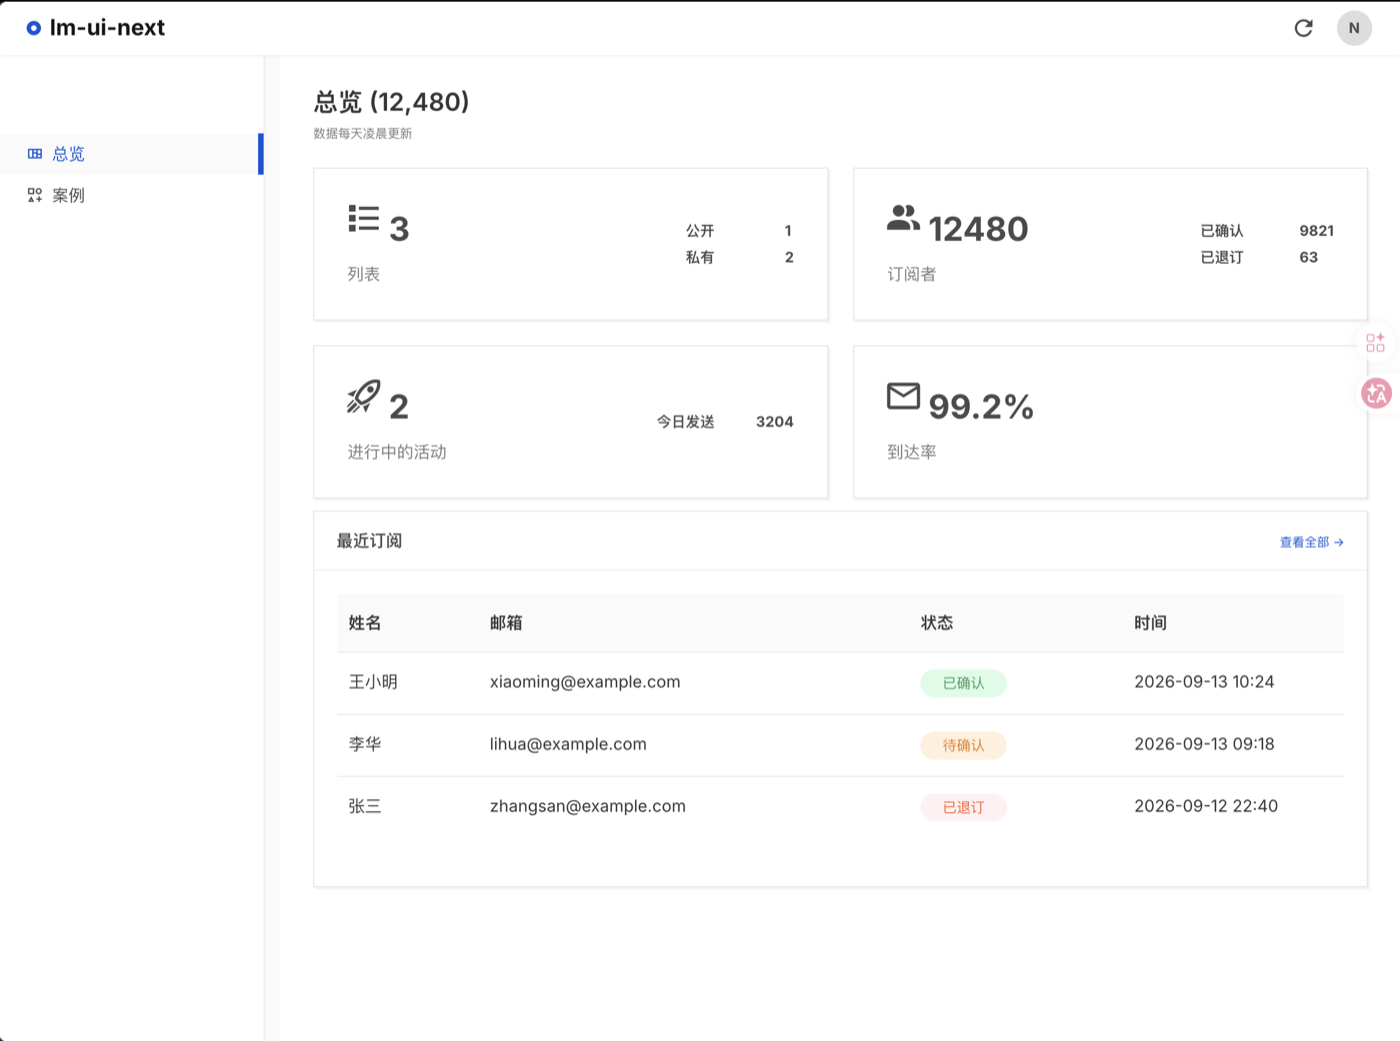
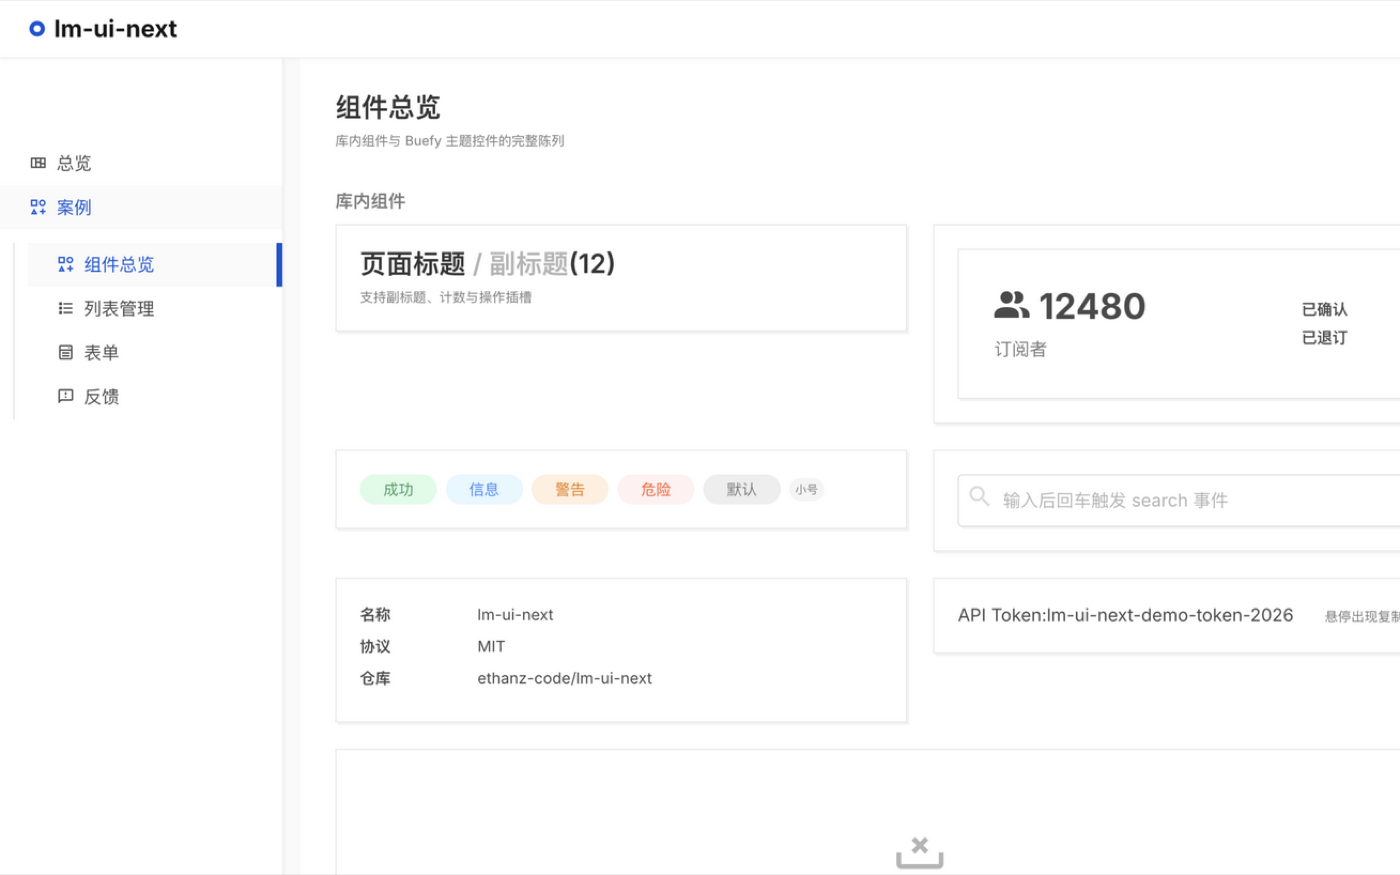
修复统计瓦片图标与大数字的垂直对齐,更新 README 截图
- LmStatTile:数字行改为 flex 居中,消除基线偏差(图标中线偏高 9.4px)
- docs/screenshot.png 更新为修复后的实时运行截图

diff --git a/src/lm-ui/components/LmStatTile.vue b/src/lm-ui/components/LmStatTile.vue
@@ -20,9 +20,9 @@ withDefaults(
     <div class="level is-mobile" style="width: 100%">
       <div class="level-left">
         <div>
-          <p>
+          <p class="count-row">
             <b-icon :icon="icon" size="is-medium" />
-            <span class="big-count ml-2">{{ count }}</span>
+            <span class="big-count">{{ count }}</span>
           </p>
           <p class="has-text-grey mt-2">{{ label }}</p>
         </div>
@@ -48,10 +48,17 @@ withDefaults(
   display: flex;
   align-items: center;
 
+  // 图标与大数字垂直居中对齐,消除基线偏差
+  .count-row {
+    display: flex;
+    align-items: center;
+    gap: 8px;
+  }
+
   .big-count {
     font-size: 2rem;
     font-weight: 700;
-    vertical-align: middle;
+    line-height: 1.2;
   }
 
   .fields {
